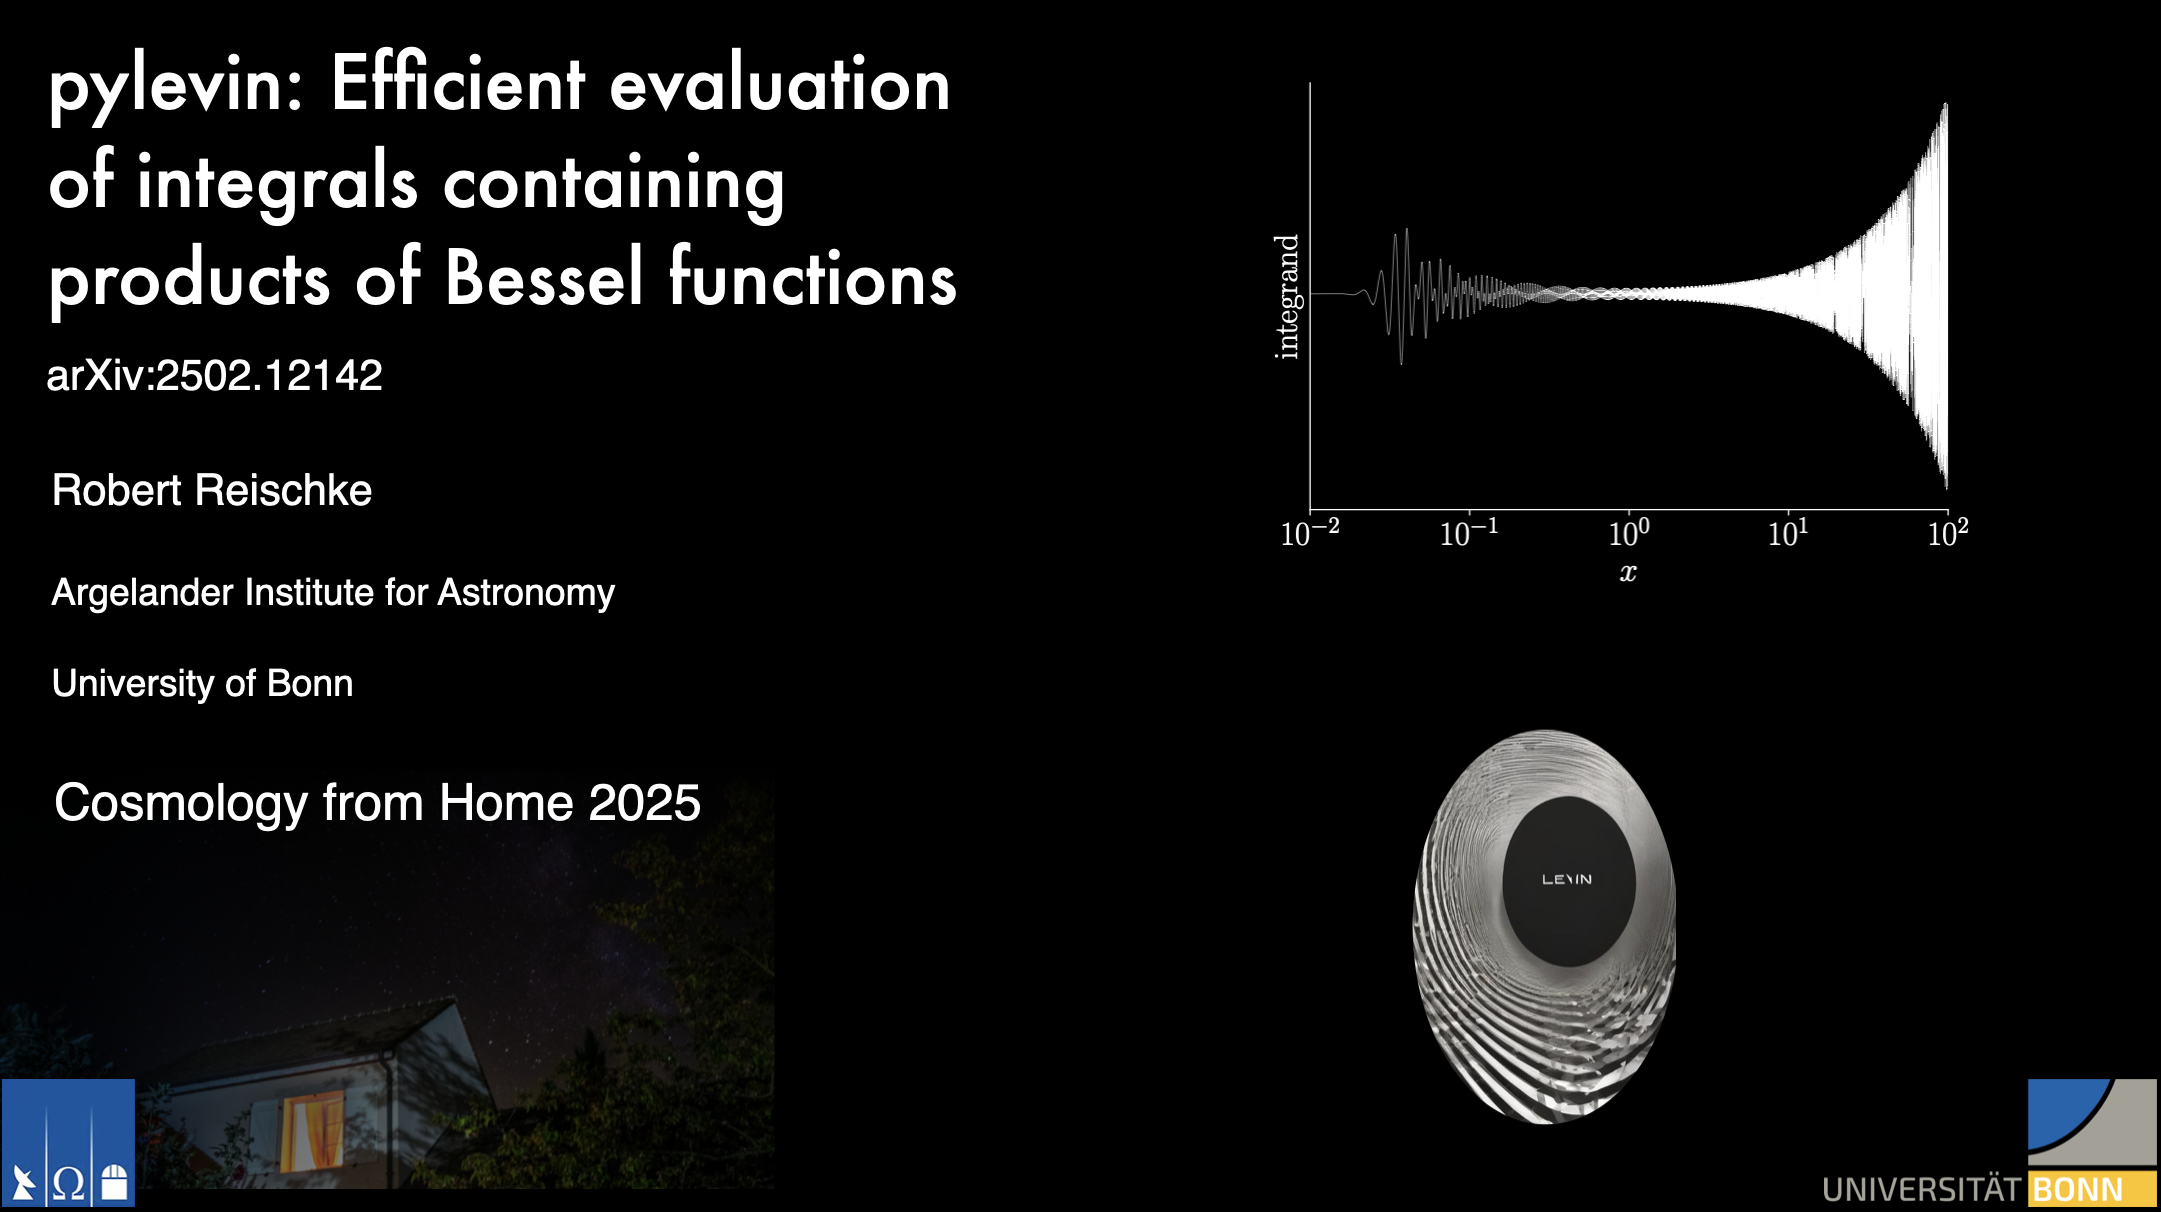
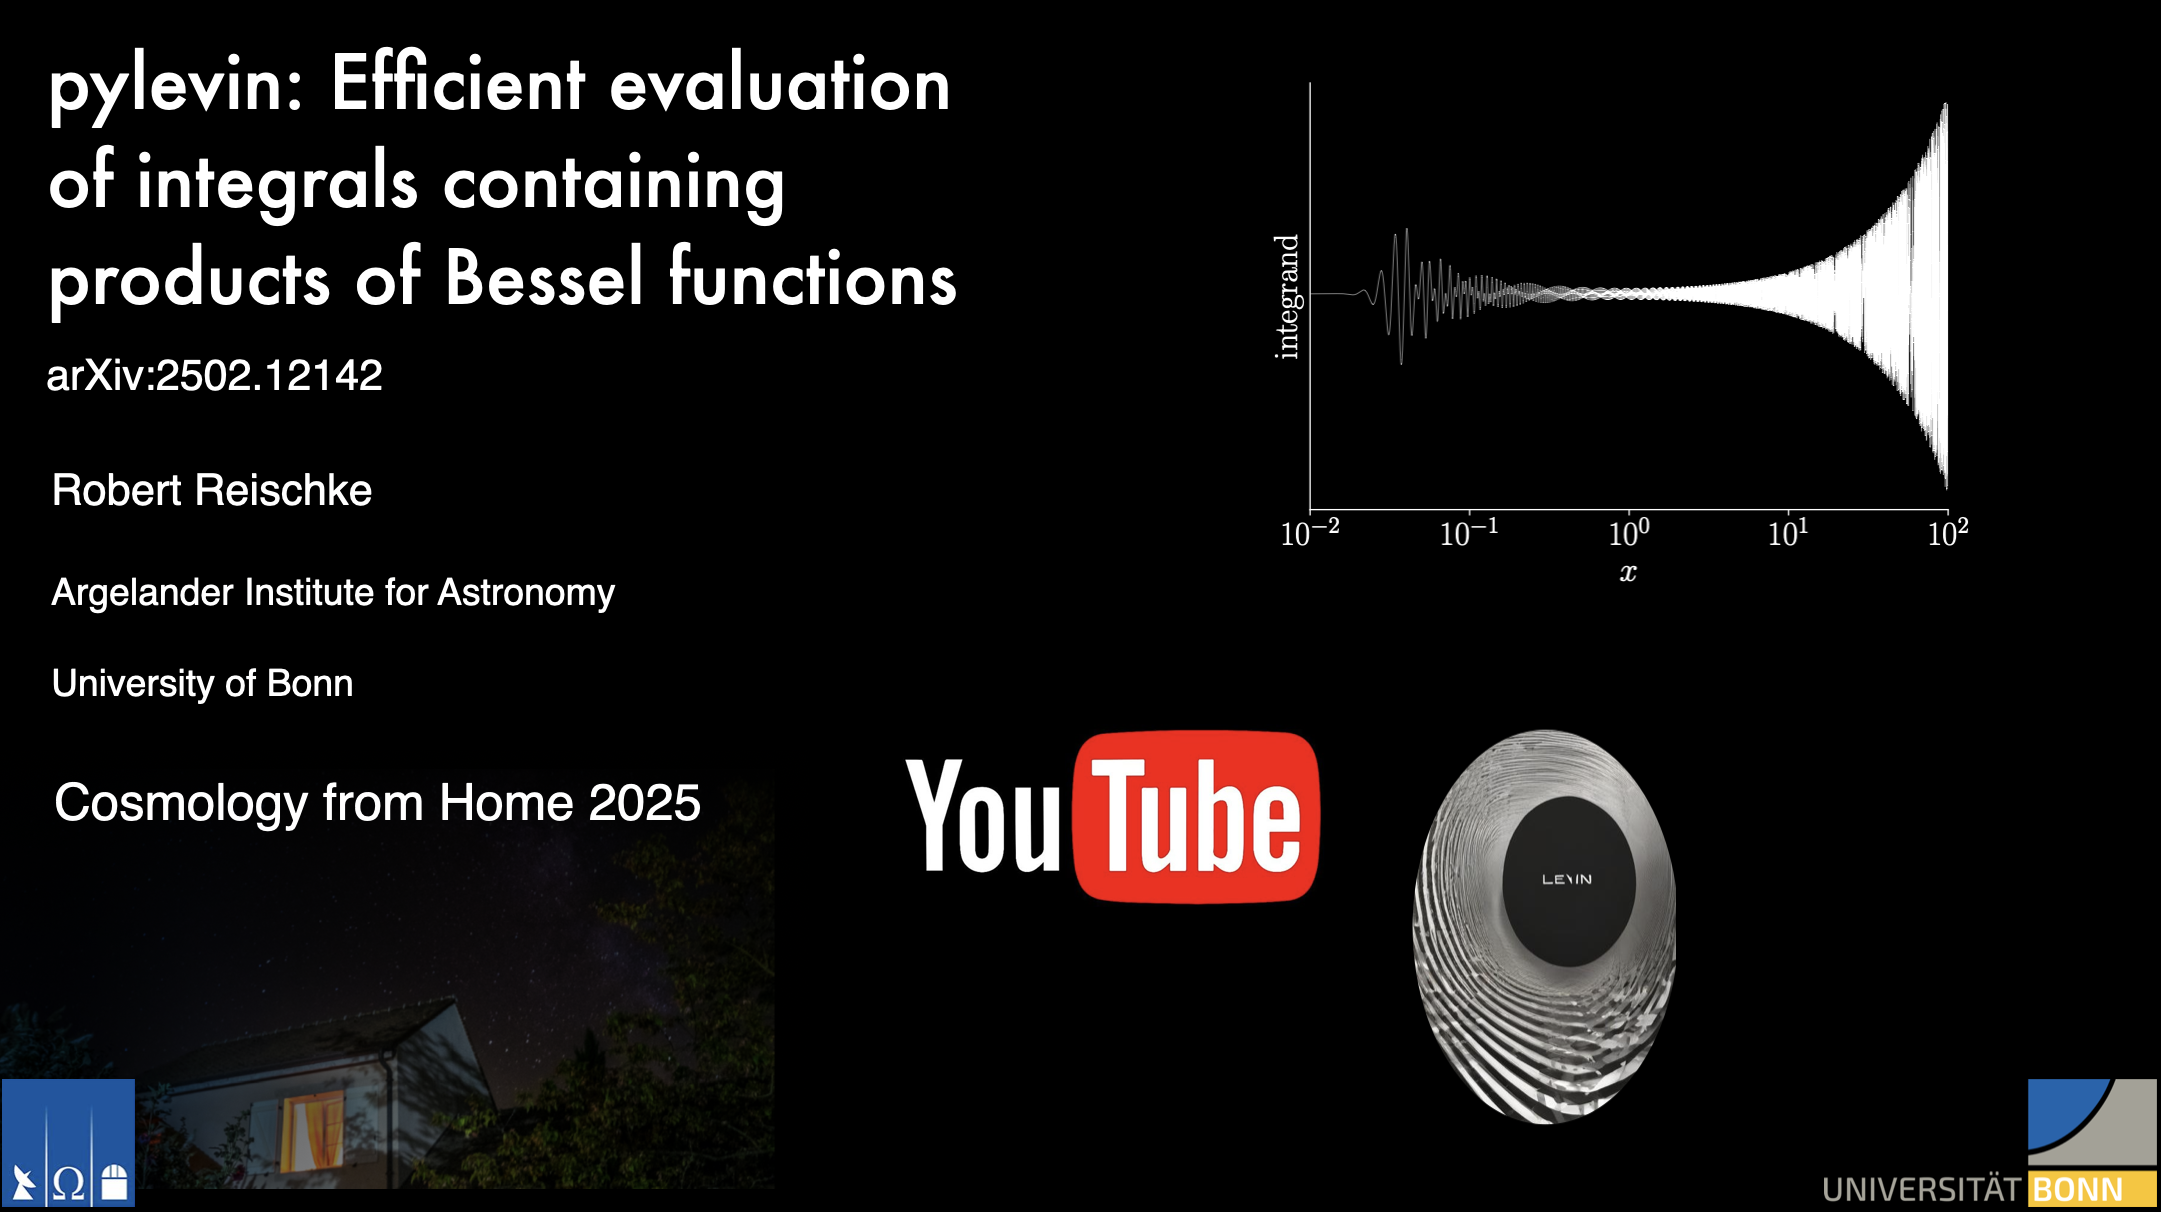
image update

Changed region(s): [[0.4031, 0.58, 0.6201, 0.7632]]

diff --git a/README.md b/README.md
@@ -38,11 +38,11 @@ If this is the case just install it by typing
 and redo the ``pip`` installation. 
 
 ### Testing the installation
-You can run ``pytest` to test the installation.
+You can run ``pytest`` to test the installation.
 
 
 ## Video-Tutorial: Cosmology from Home 2025 recording
-Feel free to watch 
+Feel free to watch my recording for Cosmology from Home 2025 on YouTube for a brief tutorial and a general explanation of the method and summary of the corresponding paper.
 [![my recording for Cosmology from Home 2025 on youtube](./docs/levin_talk.png)](https://www.youtube.com/watch?v=RcZVc6emnQU&t=2s)
 
 
